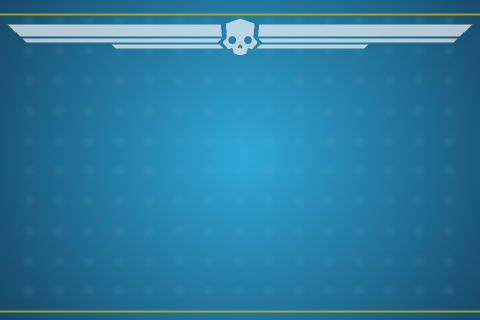
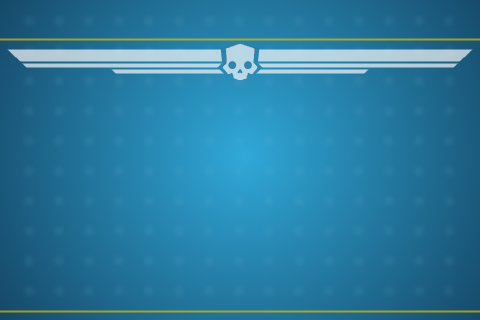
Added buffer space at top where screen on physical pad is covered

Changed region(s): [[0.0, 0.0312, 1.0, 0.25]]

diff --git a/hellpad-ui.py b/hellpad-ui.py
@@ -56,7 +56,7 @@ class Hellpad(QtWidgets.QWidget):
         self.setStyleSheet("""
             #Hellpad {
                 background-image: url("hellpad-background.png");
-                padding: 60 40 14 40;
+                padding: 85 54 14 54;
             }
             QPushButton {
                 background-color: rgba(142, 143, 136, 0.3);
